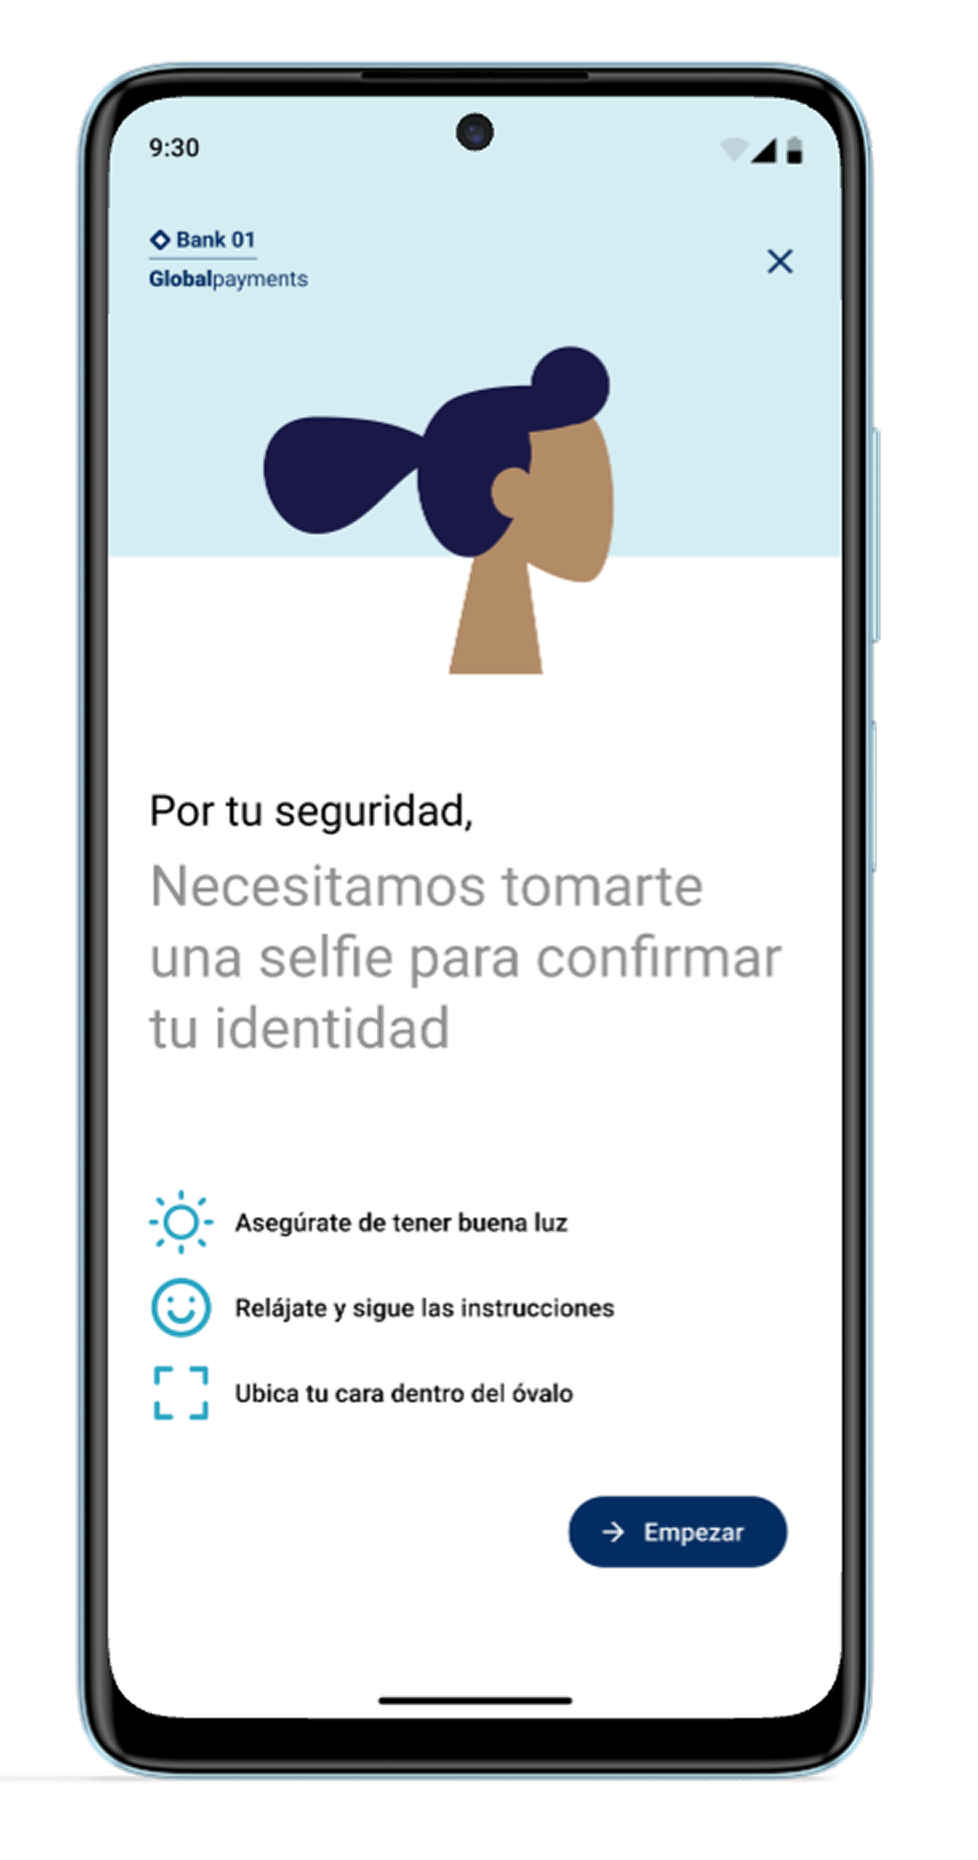
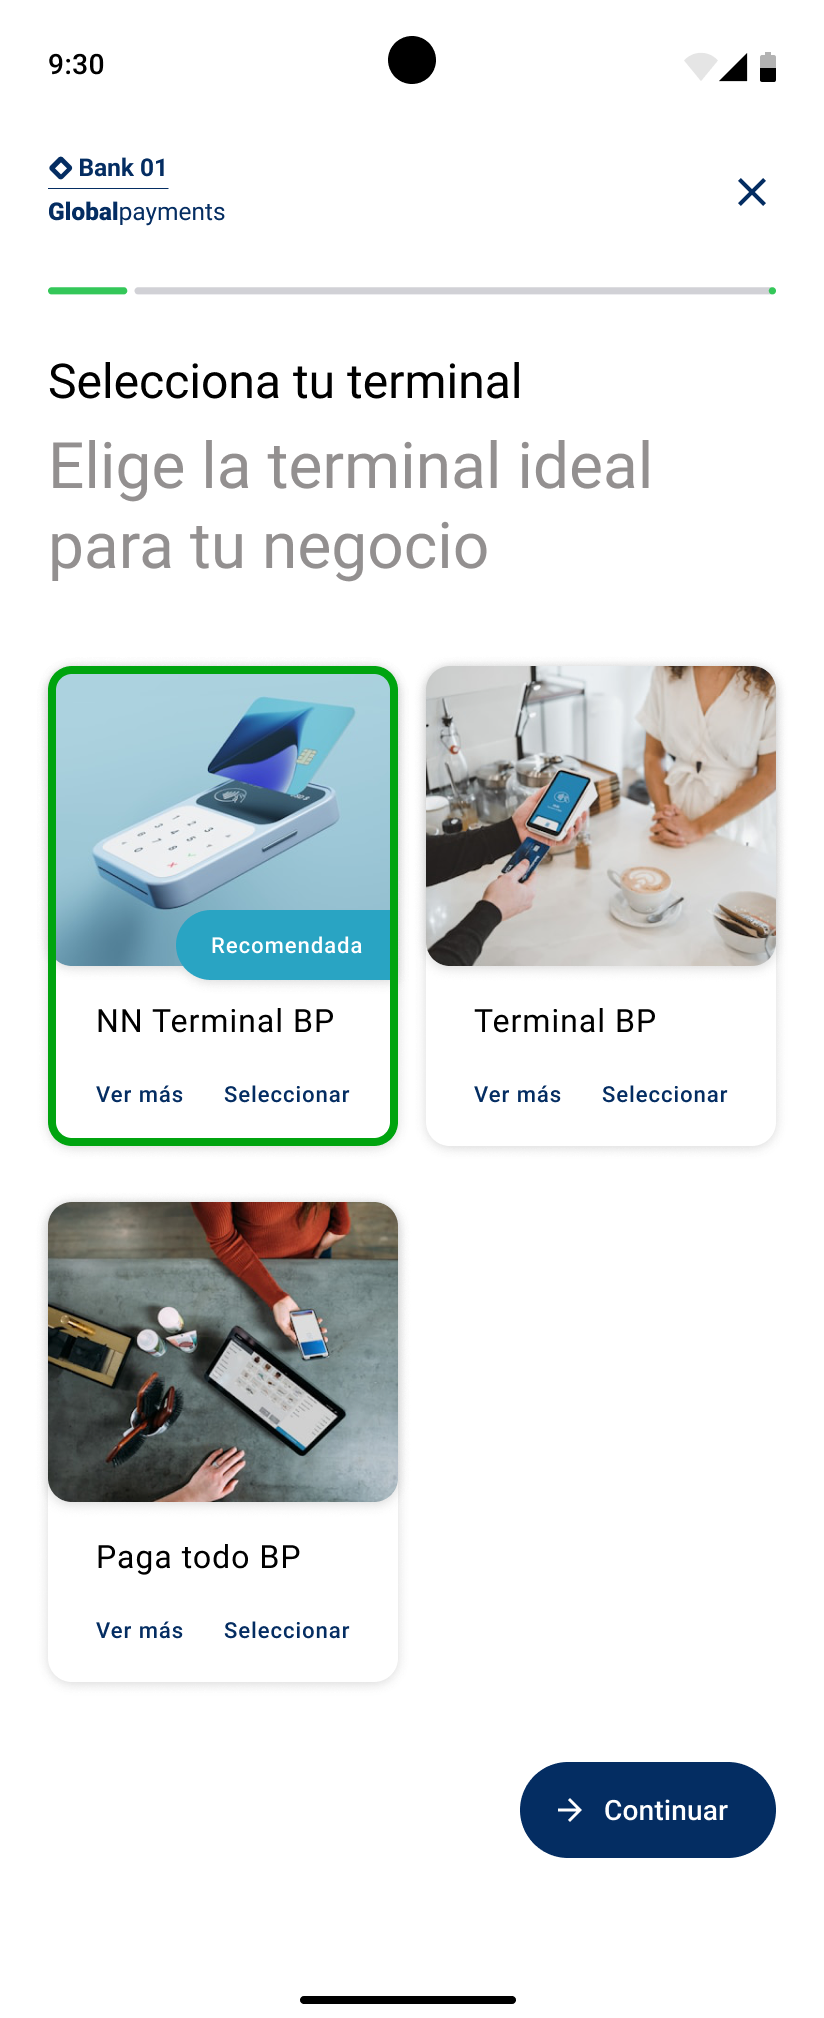
WIP: terminal selection screen + ProjectImage fixes

diff --git a/src/components/ProjectImage.jsx b/src/components/ProjectImage.jsx
@@ -20,8 +20,15 @@ export default function ProjectImage({
   if (!src || failed) return null
 
   const isLightCard = variant === 'card-light'
-    const cardClass =
-          variant === 'card' ? 'project-image--card' : variant === 'card-light' ? 'project-image--card-light' : ''
+  const isScreen = variant === 'screen'
+  const cardClass =
+    variant === 'card'
+      ? 'project-image--card'
+      : variant === 'card-light'
+        ? 'project-image--card-light'
+        : isScreen
+          ? 'project-image--screen'
+          : ''
 
   if (isLightCard) {
         return (
@@ -47,24 +54,26 @@ export default function ProjectImage({
                 </div>
               )
   }
-  
-    return (
-          <div
-                  className={`project-image relative overflow-hidden ${isLightCard ? 'bg-white' : 'bg-[#111]'} ${cardClass} ${className}`}
-                  style={style}
-                >
-                <img
-                          src={src
-                          alt={alt}
-                          className={`project-image__img block w-full object-cover object-top ${isLightCard ? 'bg-white' : ''} ${imgClassName}`}
-                          onLoad={onLoad}
-                          onError={() => {
-                                      setFailed(true)
-                                                  onError?.()
-                          }}
-                          loading={loading}
-                          draggable={draggable}
-                        />
-          </div>
-        )
+
+  return (
+    <div
+      className={`project-image relative overflow-hidden ${isLightCard ? 'bg-white' : 'bg-[#111]'} ${cardClass} ${className}`}
+      style={style}
+    >
+      <img
+        src={src}
+        alt={alt}
+        className={`project-image__img block w-full ${
+          isScreen ? 'object-contain object-top' : 'object-cover object-top'
+        } ${isLightCard ? 'bg-white' : ''} ${imgClassName}`}
+        onLoad={onLoad}
+        onError={() => {
+          setFailed(true)
+          onError?.()
+        }}
+        loading={loading}
+        draggable={draggable}
+      />
+    </div>
+  )
 }

diff --git a/src/index.css b/src/index.css
@@ -290,7 +290,7 @@
 }
 
 /* Project images — dark container by default; light cards override below */
-.project-image:not(.project-image--card-light) {
+.project-image:not(.project-image--card-light):not(.project-image--screen) {
   background: #111;
   border-radius: inherit;
 }
@@ -1043,10 +1043,20 @@
 
 .cs-screen-wrap .project-image,
 .mockup-grid .project-image,
-.case-mockup .project-image {
+.case-mockup .project-image,
+.project-image--screen {
   border-radius: 12px;
   overflow: hidden;
   background: #fff;
+}
+
+.project-image--screen .project-image__img {
+  object-fit: contain;
+  background: #fff;
+}
+
+.project-image--screen {
+  border-radius: 12px;
 }
 
 .contact-section {
